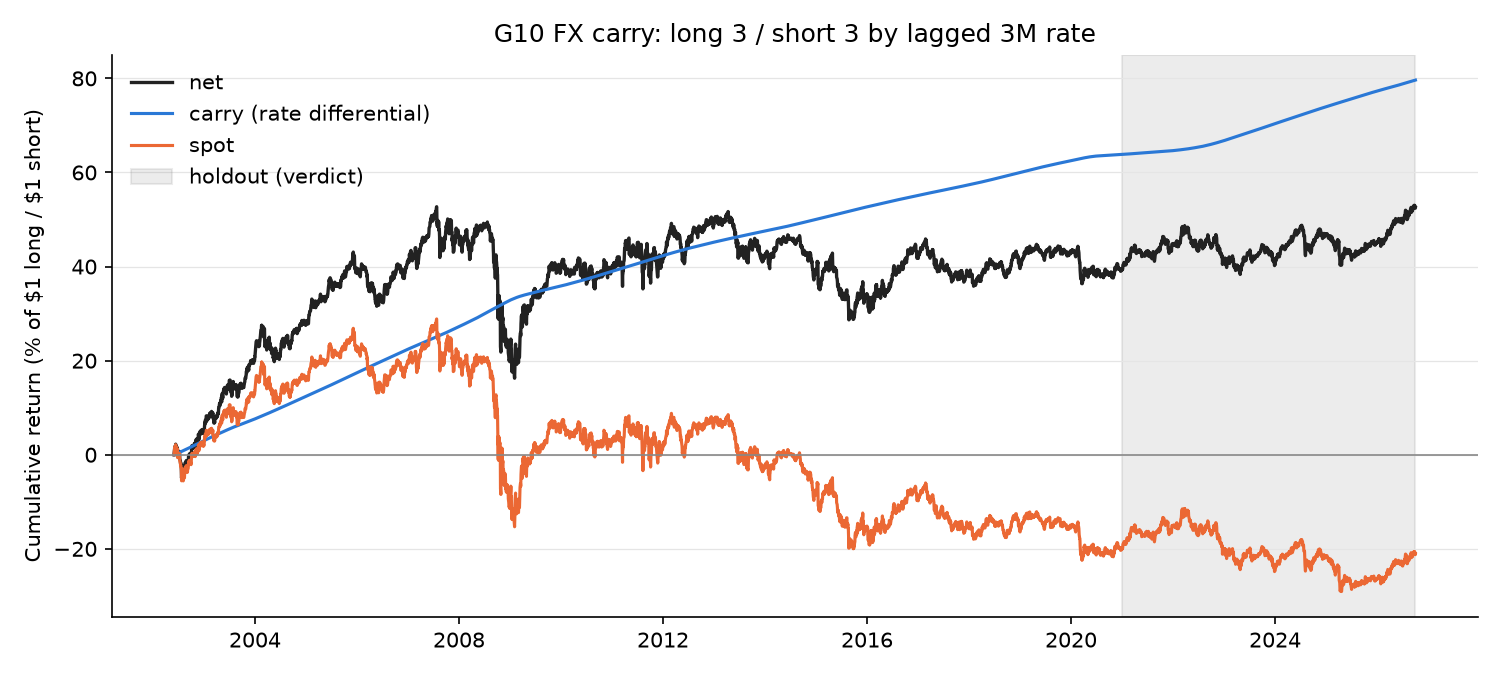
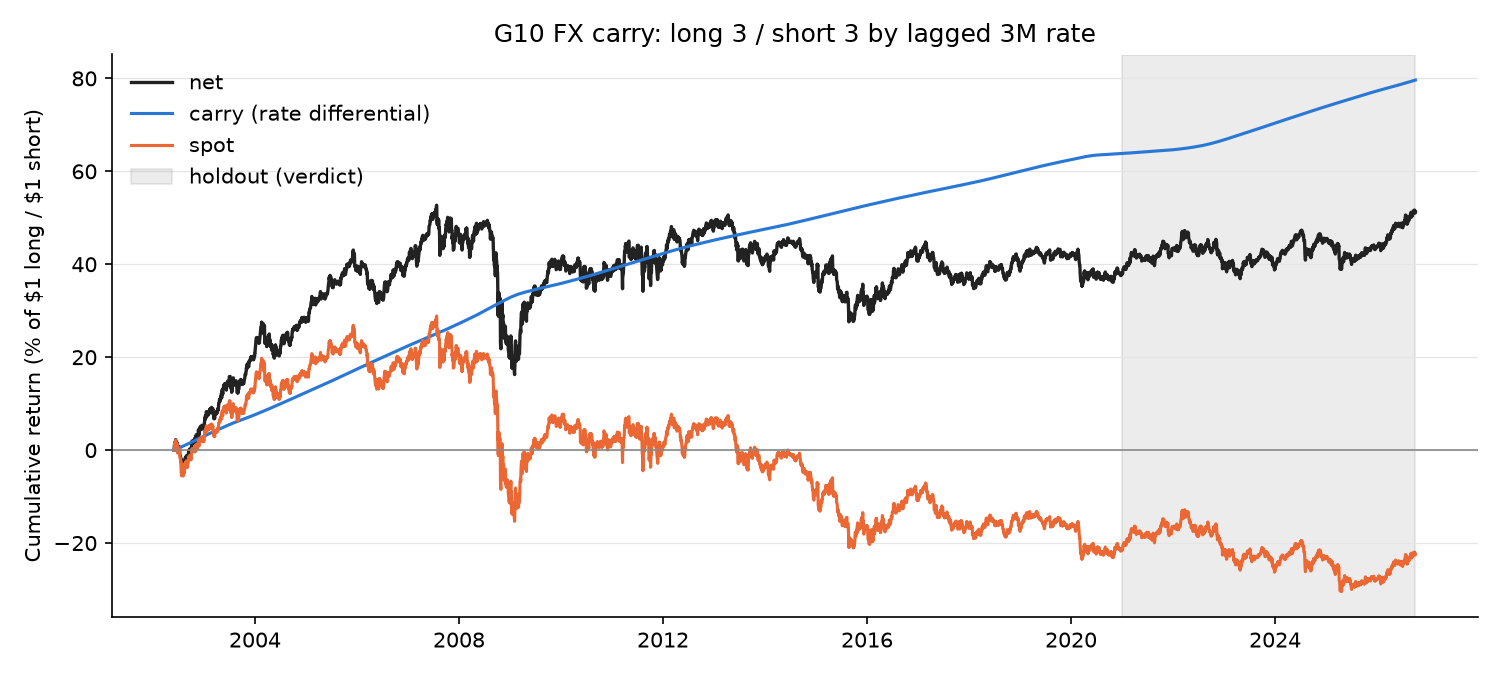
Add FX carry tie-breaking amendment so results match across platforms
The paper trader's frozen-rules check failed on GitHub's Linux runner:
identical code and data, different portfolios. Seven month-ends since
2002 have exactly equal rates at a long/short cutoff, and an ordinary
sort breaks ties differently on macOS and Linux. The pre-registration
never specified a tie rule.

Amendment 1 (appended to the pre-registration, original rules untouched)
splits a cutoff slot's weight equally among tied currencies. The holdout
passes under macOS's order, Linux's, and the split (13.02% / 13.14% /
13.08% net; Sharpe 0.42), so the verdict doesn't depend on it. Frozen
checksums updated; the live 2026-09-30 book has no ties.

diff --git a/src/fx_carry.py b/src/fx_carry.py
@@ -117,10 +117,18 @@ def book_row(sig: pd.DataFrame, month_end: pd.Timestamp) -> pd.Series | None:
     r = sig.loc[key].dropna()
     if len(r) < N_LONG + N_SHORT or "USD" not in r:
         return None
-    ranked = r.sort_values(ascending=False).index
+    # Ties at a cutoff split that slot's weight equally among the tied
+    # currencies (amendment, docs/fx_carry_preregistration.md): an ordinary
+    # sort breaks ties arbitrarily, and differently on macOS vs. Linux.
+    ranked = r.sort_values(ascending=False)
+    long_cut, short_cut = ranked.iloc[N_LONG - 1], ranked.iloc[-N_SHORT]
+    if long_cut <= short_cut:
+        return None  # ties span both cutoffs; no unambiguous ranking
     w = pd.Series(0.0, index=CURRENCIES)
-    w[ranked[:N_LONG]] = 1 / N_LONG
-    w[ranked[-N_SHORT:]] = -1 / N_SHORT
+    for cut, n, sign, beyond in [(long_cut, N_LONG, 1, r > long_cut), (short_cut, N_SHORT, -1, r < short_cut)]:
+        tied = r.index[r == cut]
+        w[r.index[beyond]] = sign / n
+        w[tied] = sign * (n - beyond.sum()) / n / len(tied)
     return pd.concat([w.rename(lambda c: f"w_{c}"), sig.loc[key].rename(lambda c: f"rate_{c}")]).rename(month_end)
 
 

diff --git a/src/fx_paper_trade.py b/src/fx_paper_trade.py
@@ -50,9 +50,10 @@ BOOKS_PATH = os.path.join(PAPER_DIR, "fx_books.csv")
 LEDGER_PATH = os.path.join(PAPER_DIR, "fx_ledger.csv")
 REVISIONS_LOG = os.path.join(PAPER_DIR, "revisions.log")
 
-# Net return sums of the pre-registered run on the committed data/fx/ files.
-FROZEN_IN_SAMPLE_NET = 0.395497482802
-FROZEN_HOLDOUT_NET = 0.130238229481
+# Net return sums of the pre-registered rules (with Amendment 1's tie
+# split) on the committed data/fx/ files.
+FROZEN_IN_SAMPLE_NET = 0.381138851808
+FROZEN_HOLDOUT_NET = 0.130821342963
 
 # Weekend plus the few hours GitHub's scheduler tends to run late.
 LATE_AFTER = pd.Timedelta(days=4)

diff --git a/README.md b/README.md
@@ -59,9 +59,9 @@ is the summary.
 **Follow-on: G10 FX carry ([pre-registered](docs/fx_carry_preregistration.md)
 before any FX data was loaded).** Long the 3 highest-yielding / short the
 3 lowest-yielding G10 currencies, monthly. It **passed** its untouched
-2021-26 holdout: 2.19%/yr at 5.2% vol, Sharpe 0.42, max drawdown -10.3%.
+2021-26 holdout: 2.20%/yr at 5.2% vol, Sharpe 0.42, max drawdown -10.3%.
 That's carry earned as the textbook says (+15.8% from rate differentials,
-spot roughly flat at -1.3%), but it's not strong evidence on its own:
+spot roughly flat at -1.2%), but it's not strong evidence on its own:
 the Sharpe standard error over 5.75 years is about 0.4, and the
 in-sample record is one good era (2002-07, Sharpe 1.45) followed by 13
 flat-to-losing years (2007-20, Sharpe -0.09).
@@ -593,8 +593,8 @@ for forward rolls. No overlays.
 
 | | Ann. return | Vol | Sharpe | Max DD | Worst month | Skew (monthly) | Spot / carry / costs |
 |---|---|---|---|---|---|---|---|
-| In-sample 2002-05 to 2020 | 2.05% | 8.74% | 0.24 | -36.4% | -10.4% (2008-10) | -0.53 | -19.8% / +63.8% / -4.5% |
-| **Holdout 2021 to 2026-10** | **2.19%** | 5.18% | **0.42** | -10.3% | -3.6% (2025-04) | -0.67 | -1.3% / +15.8% / -1.5% |
+| In-sample 2002-05 to 2020 | 1.98% | 8.76% | 0.23 | -36.4% | -10.4% (2008-10) | -0.52 | -21.2% / +63.8% / -4.5% |
+| **Holdout 2021 to 2026-10** | **2.20%** | 5.19% | **0.42** | -10.3% | -3.6% (2025-04) | -0.68 | -1.2% / +15.8% / -1.5% |
 
 **Verdict: pass** (holdout return > 0 and Sharpe > 0). How much it means:
 - The mechanism behaves as the theory says: the return is the rate
@@ -619,6 +619,16 @@ produced the same book, so only 2026-10-01/02 changed, by the cost of
 the rebalance; (2) a display-only fill showed stale rates for currencies
 already dropped from the ranking (zero weight, no PnL effect). Headline
 numbers are unchanged to two decimals.
+
+**Amendment 1, tie-breaking** (found when going live; see the
+pre-registration file): the rules never said how to rank currencies with
+exactly equal rates, and an ordinary sort breaks ties differently on macOS
+and Linux. The paper trader's frozen-rules check failed on GitHub's Linux
+runner because of it. Seven month-ends since 2002 have a tie at a cutoff,
+one in the holdout (2025-02, USD and AUD both 4.33%). The added rule splits
+the weight equally among tied currencies. The table above uses it; the
+holdout passes under macOS's order (13.02% net), Linux's (13.14%), and
+the split (13.08%), so the verdict doesn't depend on it.
 
 ### Forward paper trading of FX carry (`src/fx_paper_trade.py`)
 Live since **2026-10-10** (UTC), in the same nightly GitHub Actions job as

diff --git a/docs/fx_carry_preregistration.md b/docs/fx_carry_preregistration.md
@@ -73,3 +73,26 @@ paying carry; this trade collects it, with known crash risk.
 - **The idea isn't new to anyone:** carry's long-run premium is
   well documented, so a pass would confirm a known effect on recent data,
   not discover one.
+
+---
+
+## Amendment 1 (2026-10-10): tie-breaking at the cutoffs
+*Added after the holdout run; the rules above are unchanged.*
+
+**Gap:** the rules didn't say how to rank currencies with exactly equal
+rates. The implementation used an ordinary sort, which breaks ties
+arbitrarily, and differently on macOS (where the holdout was run) and on
+Linux (GitHub Actions). The paper trader's frozen-rules check caught this
+when the two platforms produced different results from identical code and
+data. Seven month-ends since 2002 have a tie at a cutoff, one of them in
+the holdout (2025-02-28, USD and AUD both 4.33%).
+
+**Rule added:** when currencies tie at the long or short cutoff, that
+slot's weight is split equally among them (e.g. USD and AUD at 1/6 each
+instead of one at 1/3). This picks no winner and is platform-independent.
+If ties ever span both cutoffs, no ranking is formed that month and the
+previous book carries over.
+
+**Effect on the verdict:** none. Holdout net return under macOS's tie order
+13.02%, Linux's 13.14%, the split rule 13.08% (2.20%/yr, Sharpe 0.42).
+Pass under all three.
